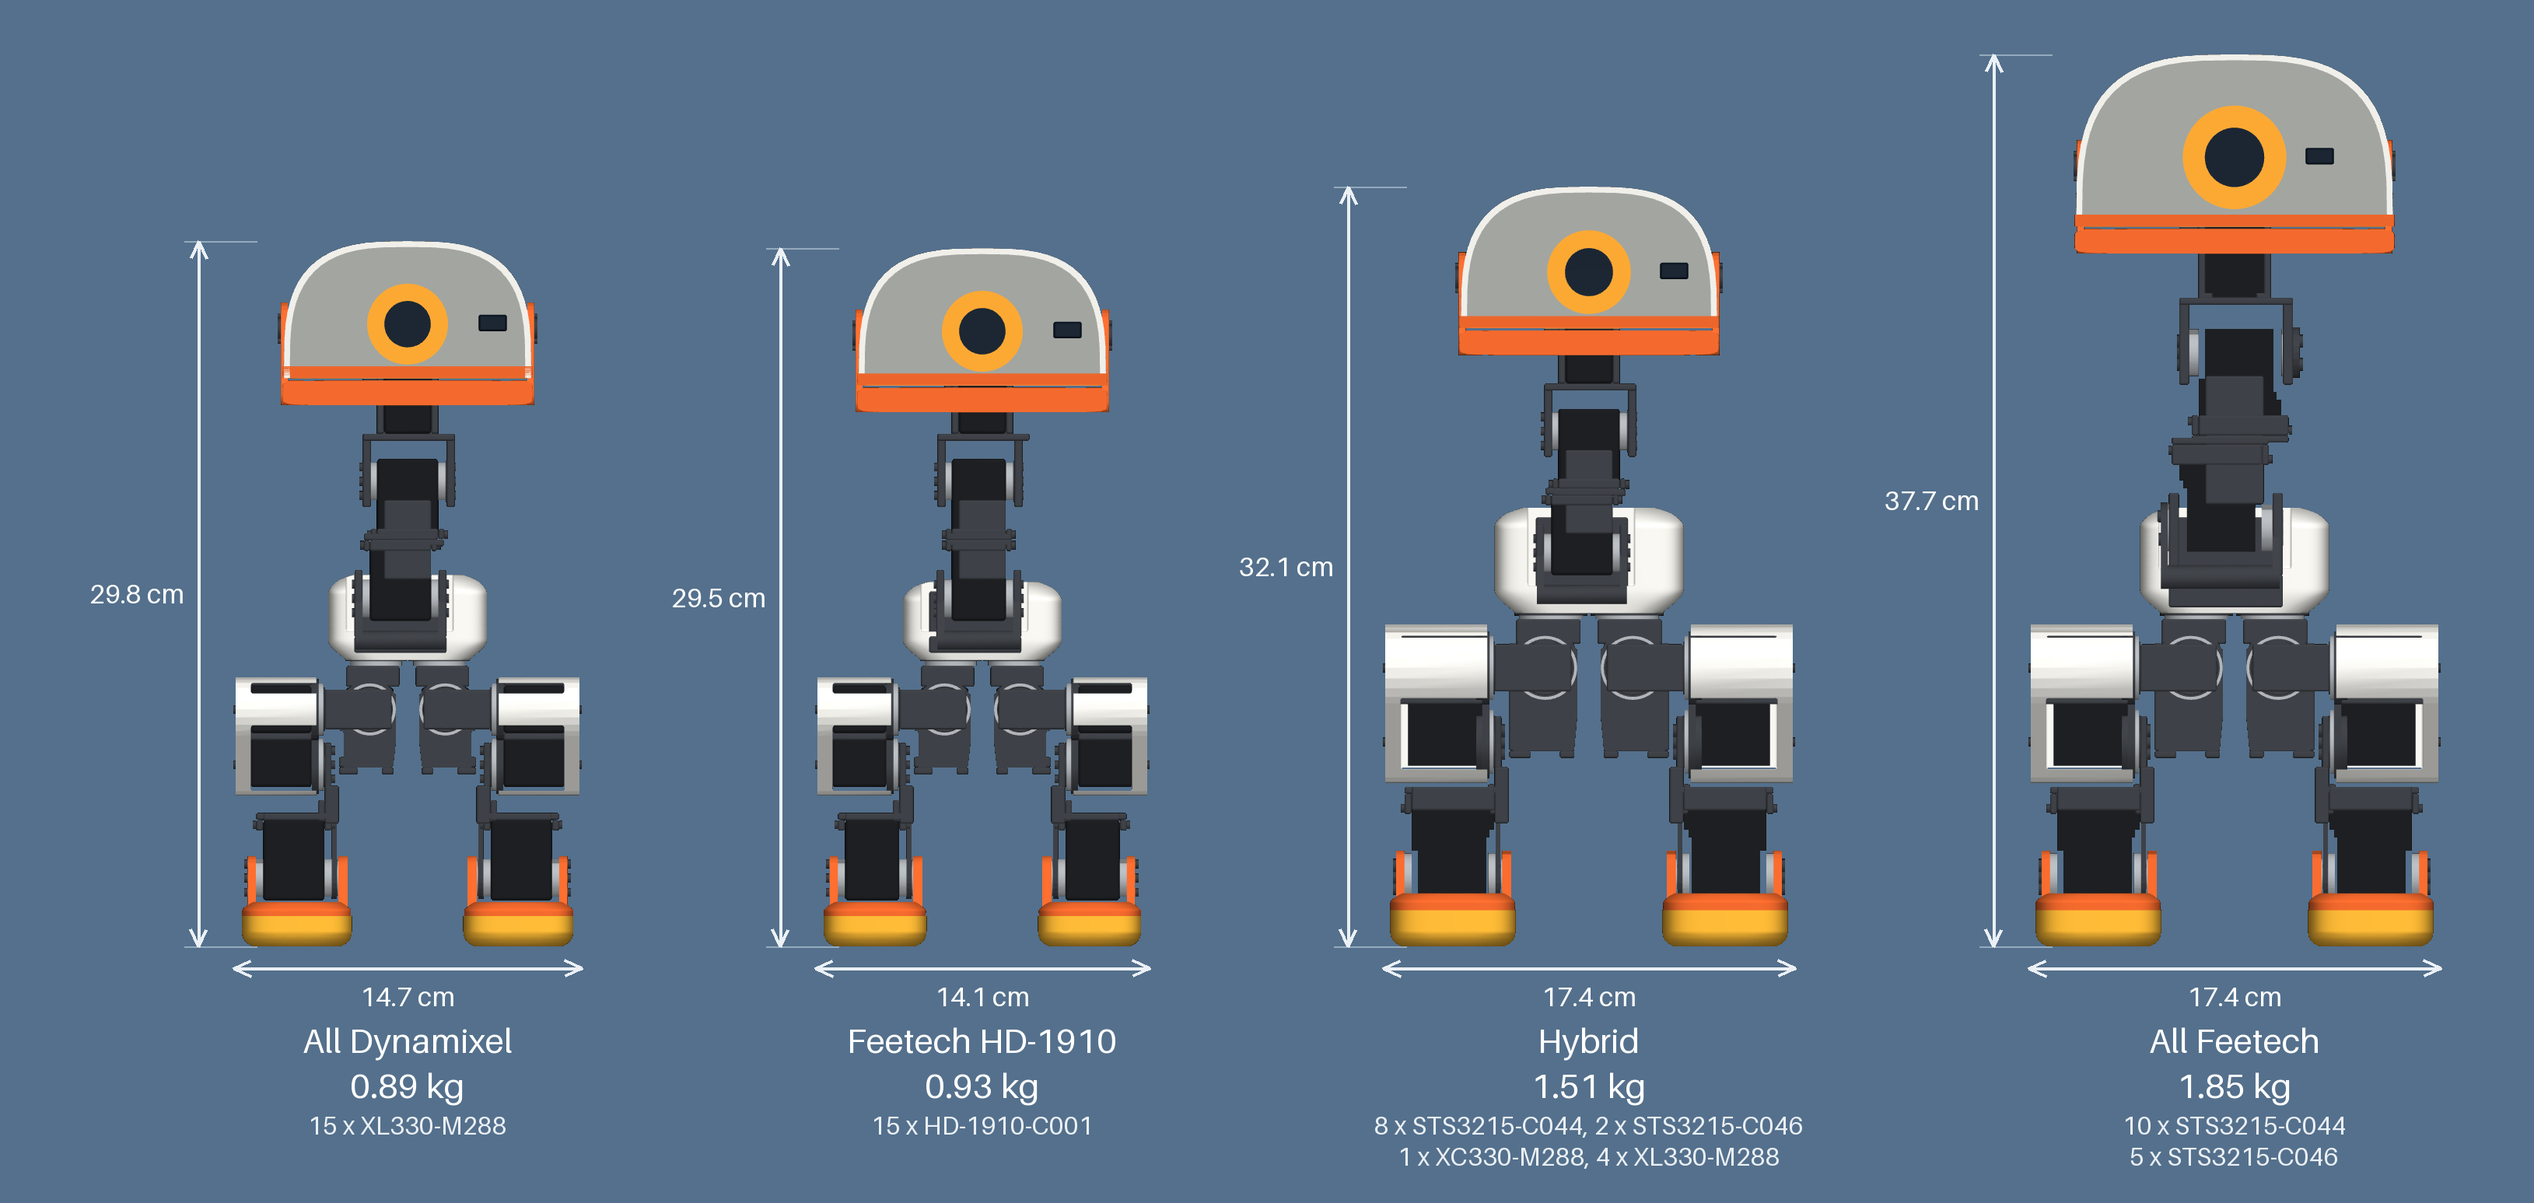
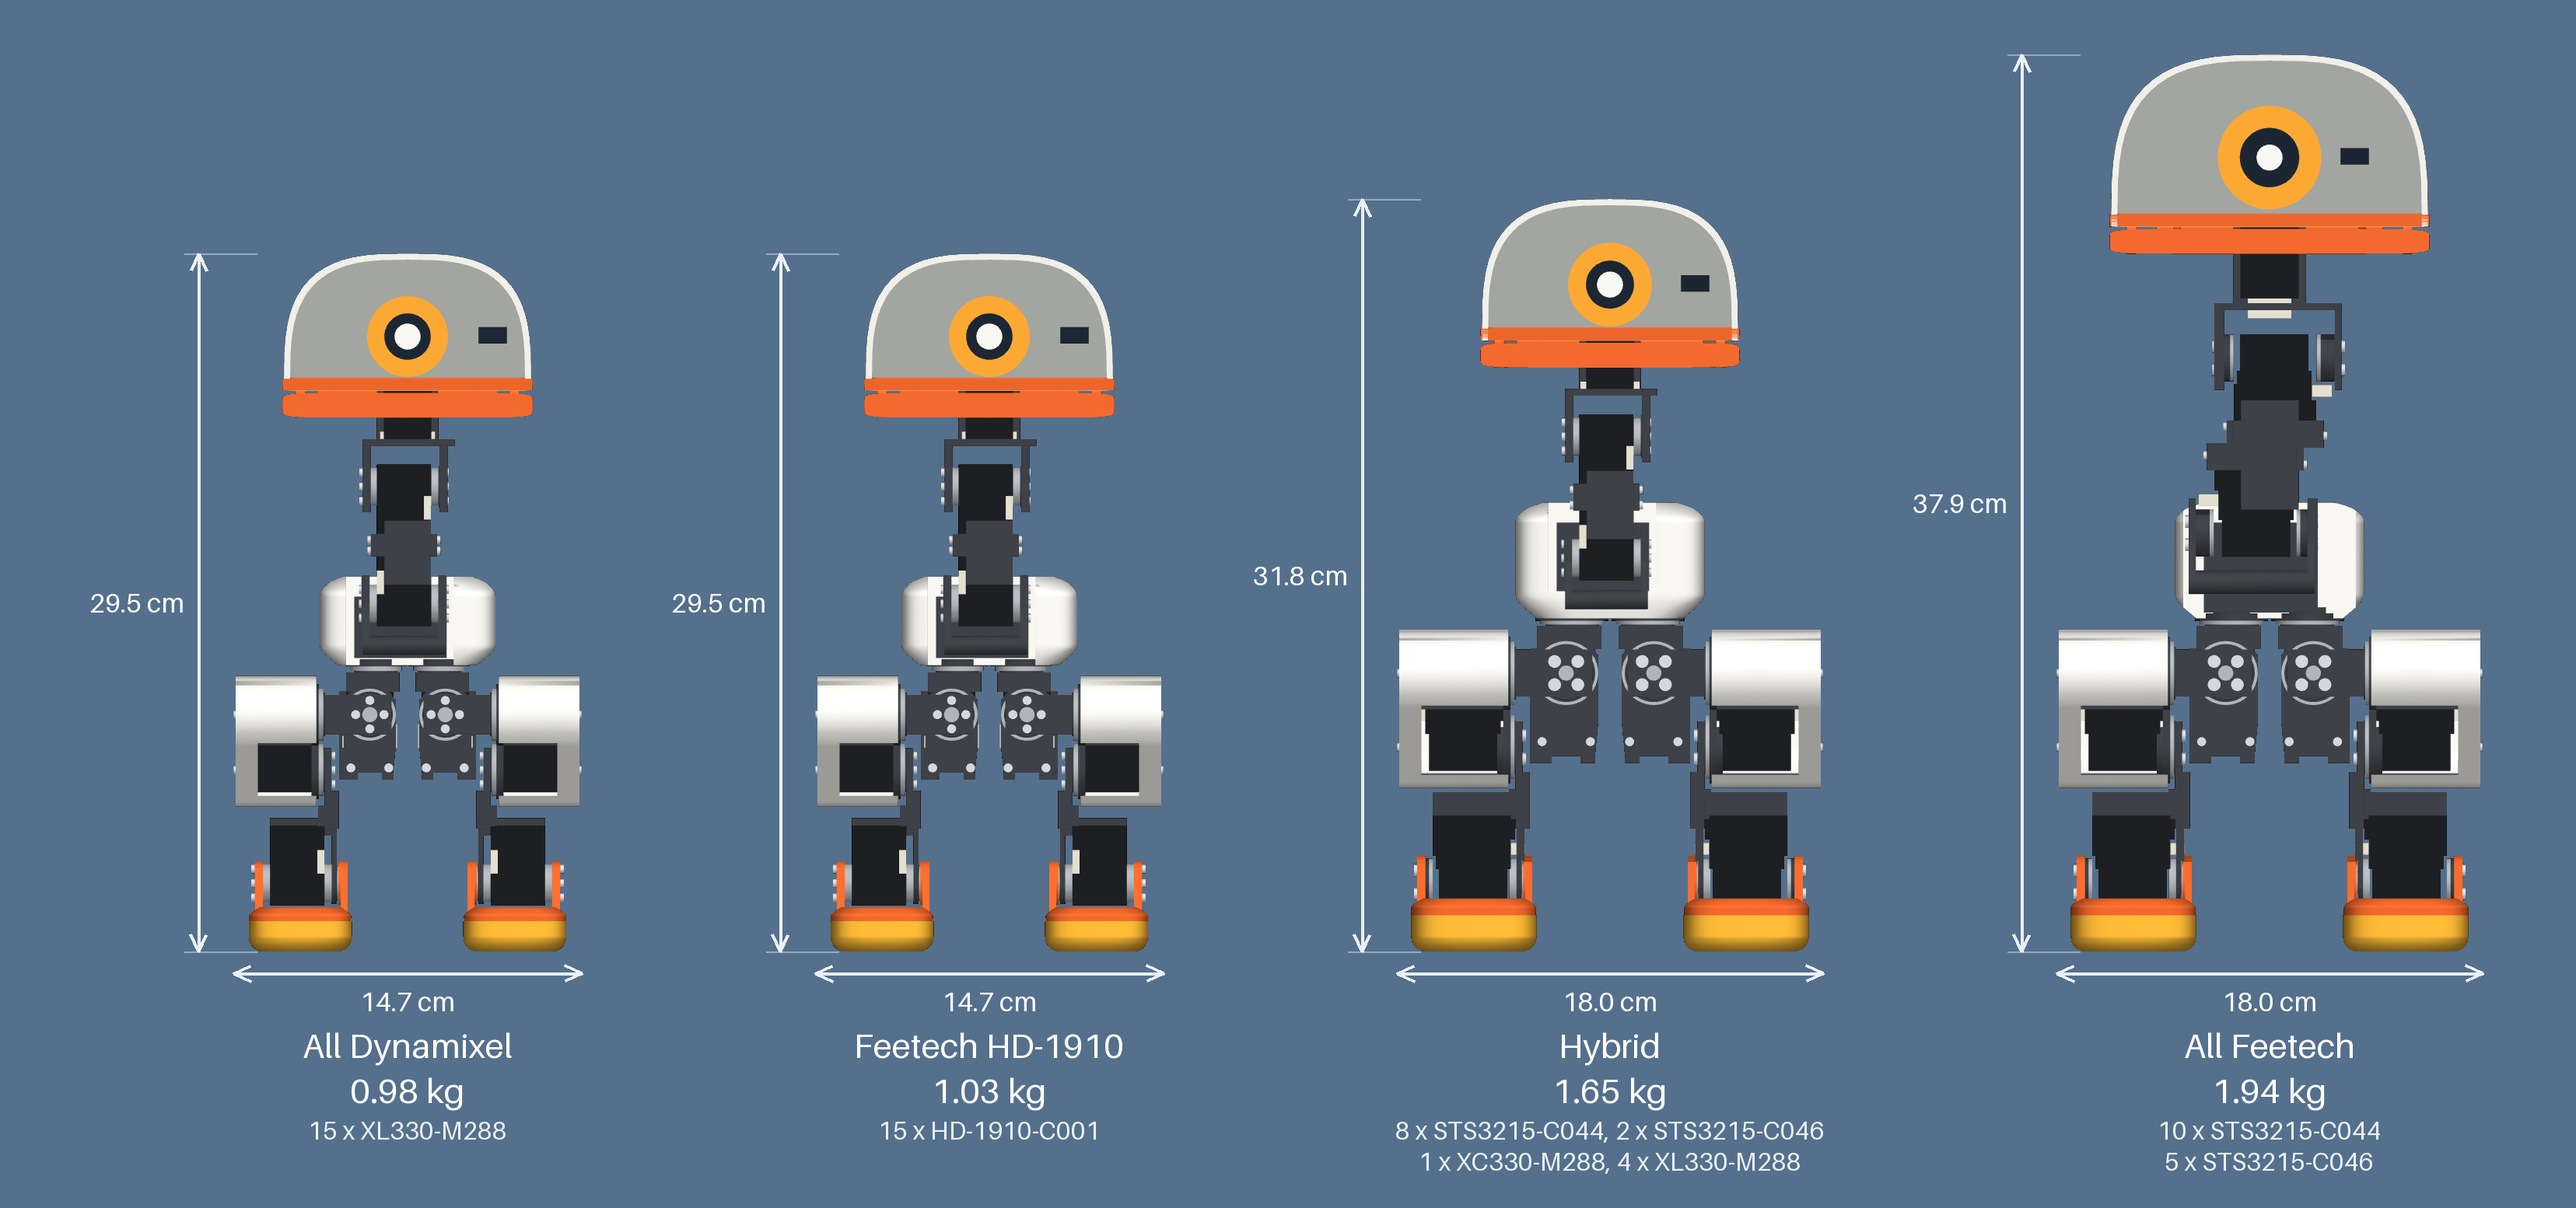
README: the four small ducks side by side again, redrawn at today's sizes, and the family video; the big duck's videos linked
A rewrite on 2026-11-05 had dropped them.

diff --git a/README.md b/README.md
@@ -22,7 +22,13 @@ Open biped robot ducks you can build from servos you can buy, each generated fro
 
 ## Other ducks
 
-The same design on other servos, and at 1.8 m. Their parts lists and wiring are written and their offline checks pass. HD-1910, all-Feetech and the hybrid have their Fusion models, prints and videos; the big duck has its Fusion links only.
+The same design on other servos, and at 1.8 m. Their parts lists and wiring are written and their offline checks pass. HD-1910, all-Feetech and the hybrid have their Fusion models, prints and videos; the big duck has its Fusion links, a [30-second reveal](docs/images/assembly/big/reveal_30s.mp4) and a [5-minute build](docs/images/assembly/big/build_5min.mp4).
+
+![The four small ducks front on at one scale, with height, width, weight and servos: all Dynamixel 29.5 cm tall, 14.7 cm wide, 0.98 kg; Feetech HD-1910 29.5 cm, 14.7 cm, 1.03 kg; hybrid 31.8 cm, 18.0 cm, 1.65 kg; all Feetech 37.9 cm, 18.0 cm, 1.94 kg](docs/images/recipes/recipes.png)
+
+![A 1.8 m white duck walking behind four small coloured ducks, each labelled with its servos, their beaks opening in turn](docs/images/family/duck_family.gif)
+
+The family ([MP4, 17 s, sharper](docs/images/family/duck_family.mp4)), in simulation only, from walks trained on 3 November, before the foot switches were taken out: today's designs have no trained walk yet.
 
 | Duck | Servos | Size | Parts | Wiring |
 |---|---|---|---|---|
